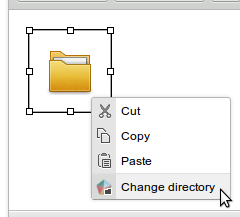
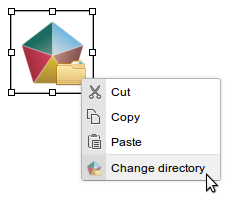
Fix folder-listing images

Changed region(s): [[0.0302, 0.0, 1.0, 1.0]]

diff --git a/folder-listing.html b/folder-listing.html
@@ -13,7 +13,7 @@
   <ol>
     <li>
       <p>Click on the Folder Listing icon.</p>
-      <p><img src="images/folder-listing/show-icon.png"/></p>
+      <p class="icon"><img src="https://rawgit.com/ox-it/wl-ck-plugins/master/folder-listing/icons/folder-listing.png"/></p>
     </li>
     <li>
       <p>
@@ -63,7 +63,7 @@
     </li>
     <li>
       <p>Click OK to embed the listing.</p>
-      <p><img src="images/folder-listing/embed.png"/></p>
+      <p class="placeholder"><img src="https://rawgit.com/ox-it/wl-ck-plugins/master/folder-listing/icons/placeholder.png"/></p>
     </li>
     <li>
       <p>
